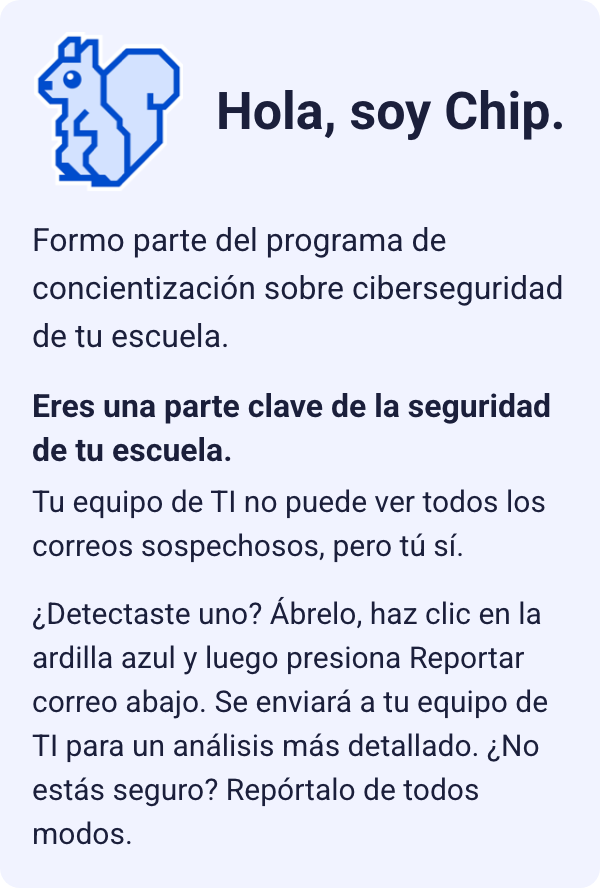
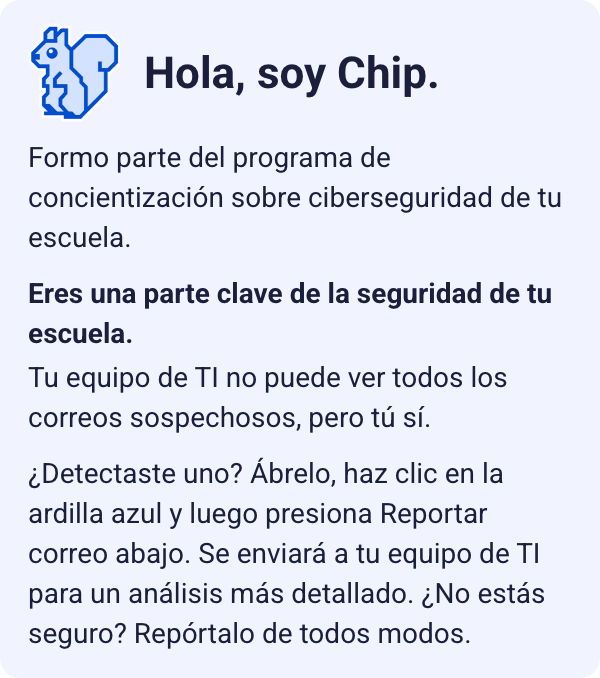
CYB4-2596: compact Chip block so the language row fits without scrolling
Smaller squirrel and heading, 14px body, tighter spacing; re-render
chip-intro images (about 25% shorter) so the version + language row at the
bottom of the home card is visible in a normal Gmail panel.

Changed region(s): [[0.03, 0.031, 0.96, 0.6504], [0.03, 0.6814, 0.93, 0.9602]]

diff --git a/scripts/render-home-images.js b/scripts/render-home-images.js
@@ -53,18 +53,21 @@ p, h2, h3 { margin: 0; }
 </style></head><body><div id="root" dir="${RTL.has(lang) ? "rtl" : "ltr"}">${body}</div></body></html>`;
 }
 
+// Compact version of the mock's Chip block (smaller squirrel and heading,
+// tighter spacing) so the whole home card, down to the version + language
+// row, fits a normal Gmail panel without scrolling.
 function chipIntro(m) {
-  return `<div style="box-sizing:border-box;padding:16px;border-radius:10px;background:#F1F3FF;display:flex;flex-direction:column;gap:12px">
-  <div style="display:flex;align-items:center;gap:16px">
-    <img src="${CHIP}" alt="" style="width:76px;height:80px;flex:none;object-fit:contain">
-    <h2 style="font-size:26px;line-height:32px;font-weight:700">${esc(m.chipGreeting)}</h2>
+  return `<div style="box-sizing:border-box;padding:12px 14px;border-radius:10px;background:#F1F3FF;display:flex;flex-direction:column;gap:8px">
+  <div style="display:flex;align-items:center;gap:12px">
+    <img src="${CHIP}" alt="" style="width:46px;height:49px;flex:none;object-fit:contain">
+    <h2 style="font-size:22px;line-height:28px;font-weight:700">${esc(m.chipGreeting)}</h2>
   </div>
-  <p style="font-size:16px;line-height:24px">${esc(m.chipIntro)}</p>
-  <div style="display:flex;flex-direction:column;gap:4px">
-    <h3 style="font-size:16px;line-height:22px;font-weight:700">${esc(m.keyPartHeading)}</h3>
-    <p style="font-size:15px;line-height:22px">${esc(m.keyPartBody)}</p>
+  <p style="font-size:14px;line-height:20px">${esc(m.chipIntro)}</p>
+  <div style="display:flex;flex-direction:column;gap:2px">
+    <h3 style="font-size:14px;line-height:20px;font-weight:700">${esc(m.keyPartHeading)}</h3>
+    <p style="font-size:14px;line-height:20px">${esc(m.keyPartBody)}</p>
   </div>
-  <p style="font-size:15px;line-height:22px">${esc(m.spotOne)}</p>
+  <p style="font-size:14px;line-height:20px">${esc(m.spotOne)}</p>
 </div>`;
 }
 

diff --git a/README.md b/README.md
@@ -114,7 +114,10 @@ The home card (`buildHomeCard()` in `code.gs`) follows the "Chip Reporting
 Panel" mock attached to CYB4-2596, top to bottom:
 
 1. Chip block: squirrel image + "Hi, I'm Chip.", then the program copy
-   (`home.*` keys in `i18n.gs`), in the mock's text colour.
+   (`home.*` keys in `i18n.gs`). Rendered as a compact version of the mock's
+   block (smaller squirrel and heading, tighter spacing) so the whole card,
+   down to the version + language row, fits a normal Gmail panel without
+   scrolling.
 2. "See an overview of CyberNut": a thumbnail with a play button. Clicking it
    plays the video as a GIF in the panel (see **Video** below).
 3. **Report Email** (only when an email is open) and **How reporting works**
